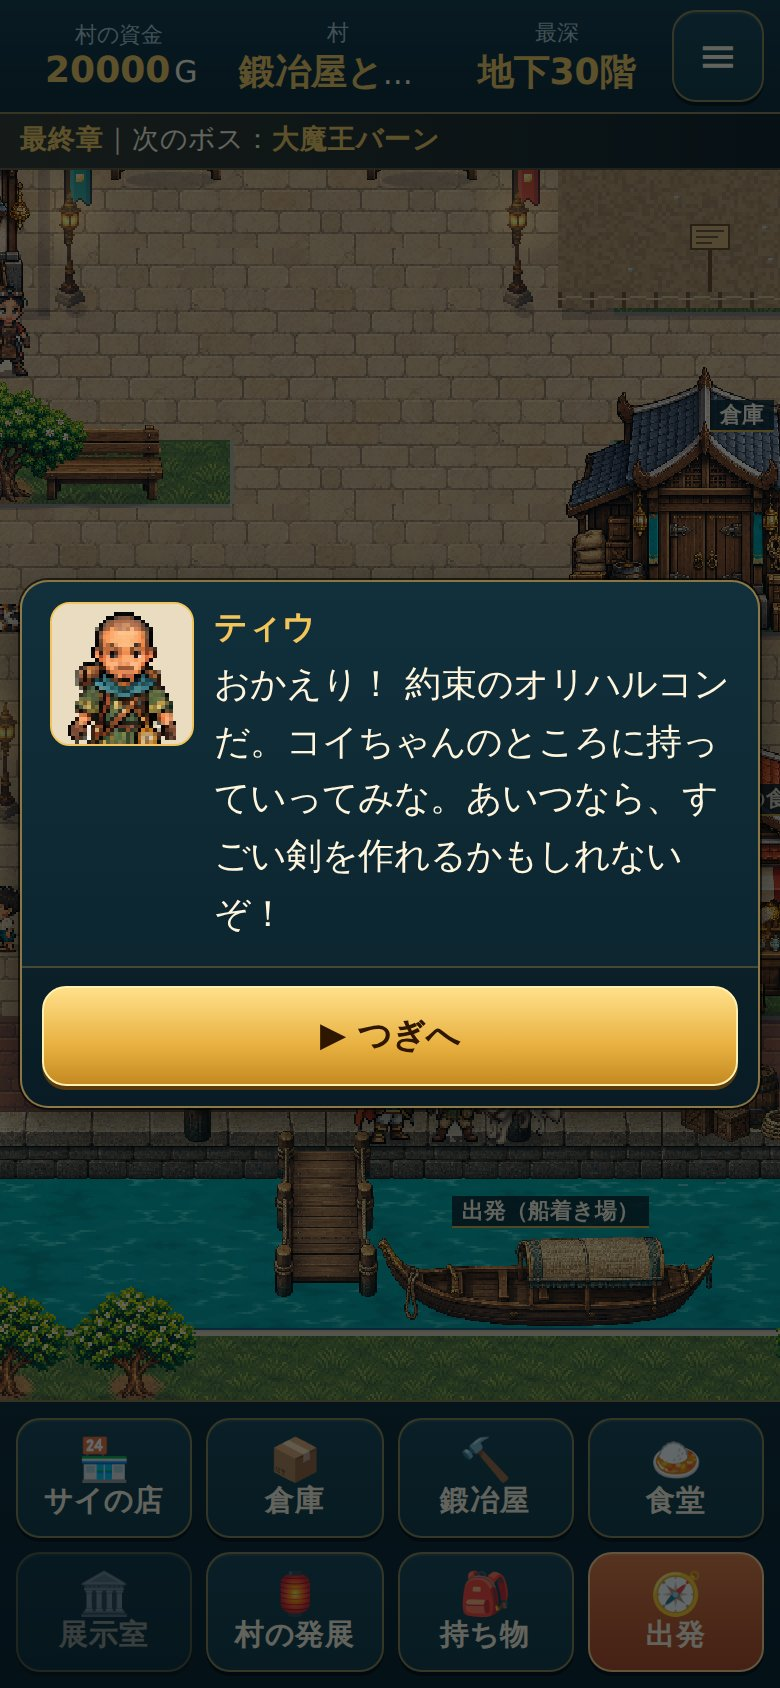
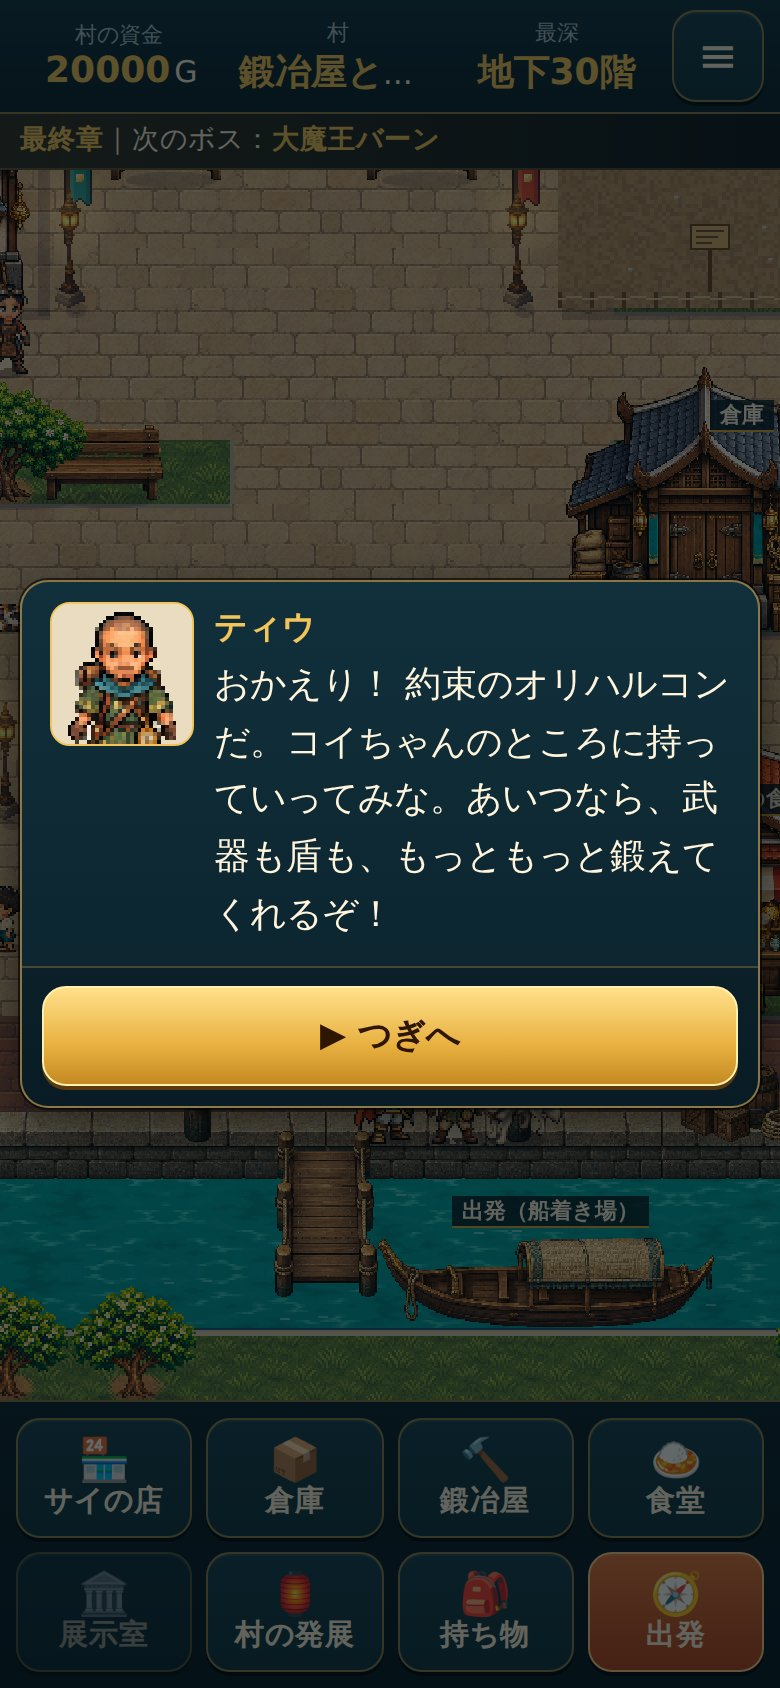
勇者の剣はモッチャンから。コイはオリハルコンで上限なく鍛える
- 勇者の剣：展示室のお宝を全部集め、村の飾りを全部作ったあと、こもれびの家でモッチャンが渡す（昔マスターヤナイが村に寄付した剣。1回だけ）
- コイは勇者の剣を打たない。鍛冶屋が+8の段階なら、どの武器・盾もオリハルコンで上限なく鍛えられる（+9からの費用は今までどおり）
- オリハルコンを持って初めて鍛冶屋へ行くと、コイがそのことを話す（1回だけ）
- 以前の版でコイに打ってもらったセーブでは、二重に渡さない
- テスト・画面確認ツールを更新

Claude-Session: https://claude.ai/code/session_01HDLigwwegm7F2trSGLBQuS

diff --git a/tools/orichalcum-events-check.js b/tools/orichalcum-events-check.js
@@ -2,7 +2,8 @@
 // PCのブラウザ、幅360・390・430。実際の画面の操作で：
 //  ① 30階の救援：オオカミの配送を見終えると、ティウが「オリハルコンを町まで持って帰る」と話す（その場では渡さない）
 //  ② 村でティウに話しかける → オリハルコンを1個受け取る（2回目は冒険案内）
-//  ③ 鍛冶屋（コイ）→ 勇者の剣を打つ会話 → 勇者の剣がバッグに・オリハルコン1個減る・お金は変わらない → 鍛冶屋の画面（上限なし）。2回目は鍛冶屋だけ
+//  ③ 鍛冶屋（コイ）→ 上限なく鍛えられるという会話（1回だけ。勇者の剣は打たない。2026年10月29日）→ 鍛冶屋の画面（上限なし）。2回目は鍛冶屋だけ
+//  ⑤ お宝を全部飾り、村の飾りを全部作ったあと、こもれびの家（モッチャン）→ 勇者の剣の会話 → 剣がバッグに → 村の発展の画面。2回目は村の発展だけ
 //  ④ マスターヤナイの像のあと、食堂（ワーン）→ 勇者の盾の会話 → 盾がバッグに → 食堂の画面。2回目は食堂だけ
 const { chromium } = (() => { try { return require('playwright'); } catch (e) { return require('/opt/node22/lib/node_modules/playwright'); } })();
 const http = require('http'), fs = require('fs'), path = require('path');
@@ -74,15 +75,12 @@ const closeModals = (p) => p.evaluate(() => { while (TS.UI.modals.length) TS.UI.
     const f0 = await p.evaluate(() => TS.UI.S.village.funds);
     await p.tap('.fac[data-fac="smith"]'); await p.waitForTimeout(300);
     if (W === 390) await p.screenshot({ path: path.join(OUT, `3-koi-see_${W}.jpg`), quality: 85 });
-    const l3a = []; for (let i = 0; i < 3 && await p.$('.talk'); i++) { l3a.push(await p.evaluate(() => document.querySelector('.talk .who').textContent + '：' + document.querySelector('.talk .txt').textContent)); await p.tap('.modal-buttons button.primary'); await p.waitForTimeout(200); }
-    if (W === 390) await p.screenshot({ path: path.join(OUT, `3-koi-done_${W}.jpg`), quality: 85 });
-    const l3b = await readTalk(p);
-    const l3 = l3a.concat(l3b);
-    const st3 = await p.evaluate(() => { const V = TS.UI.S.village; return { forge: !!V.story.heroForge, mats: V.materials.orichalcum || 0, sword: V.bag.concat(V.storage).filter((i) => i.id === 'hero_sword_relic').length, funds: V.funds }; });
-    chk(/オリハルコンじゃねえか/.test(l3.join()) && /アタイに任せな/.test(l3.join()) && /アタイもひとつ腕が上がった/.test(l3.join()) && l3.every((s) => !/^コイ：/.test(s) || /コイ/.test(s)), `${W} ③ コイの会話（アタイ） ${l3.join(' / ')}`);
-    chk(st3.forge && st3.mats === 0 && st3.sword === 1 && st3.funds === f0, `${W} ③ 勇者の剣（オリハルコン1個・お金なし）・無限強化の解放 ${JSON.stringify(st3)}`);
+    const l3 = await readTalk(p);
+    const st3 = await p.evaluate(() => { const V = TS.UI.S.village; return { koi: !!V.story.koiOri, mats: V.materials.orichalcum || 0, sword: V.bag.concat(V.storage).filter((i) => i.id === 'hero_sword_relic').length, funds: V.funds }; });
+    chk(/オリハルコンじゃねえか/.test(l3.join()) && /上限なし/.test(l3.join()), `${W} ③ コイの会話（アタイ・上限なし） ${l3.join(' / ')}`);
+    chk(st3.koi && st3.mats === 1 && st3.sword === 0 && st3.funds === f0, `${W} ③ 勇者の剣は打たない・オリハルコンは減らない ${JSON.stringify(st3)}`);
     const smithTitle = await modalTitle(p), smithText = await p.evaluate(() => (document.querySelector('.modal') || {}).textContent || '');
-    chk(/鍛冶屋/.test(smithTitle) && /上限：なし/.test(smithText) && /勇者の剣/.test(smithText), `${W} ③ そのまま鍛冶屋の画面（上限なし・勇者の剣が並ぶ）`);
+    chk(/鍛冶屋/.test(smithTitle) && /上限：なし/.test(smithText), `${W} ③ そのまま鍛冶屋の画面（上限なし）`);
     if (W === 390) await p.screenshot({ path: path.join(OUT, `3-smith_${W}.jpg`), quality: 85 });
     await closeModals(p); await p.waitForTimeout(200);
     await p.tap('.fac[data-fac="smith"]'); await p.waitForTimeout(300);
@@ -103,6 +101,22 @@ const closeModals = (p) => p.evaluate(() => { while (TS.UI.modals.length) TS.UI.
     await closeModals(p); await p.waitForTimeout(200);
     await p.tap('.fac[data-fac="diner"]'); await p.waitForTimeout(300);
     chk(!(await p.$('.talk')), `${W} ④ 2回目は食堂だけ（二重に起きない）`);
+    await closeModals(p);
+    // ⑤ こもれびの家（モッチャン）：そろう前は村の発展だけ → お宝と村の飾りを全部そろえると勇者の剣
+    await p.tap('.fac[data-fac="develop"]'); await p.waitForTimeout(300);
+    chk(!(await p.$('.talk')) && /村の発展/.test(await modalTitle(p)), `${W} ⑤ そろう前は村の発展だけ`);
+    await closeModals(p);
+    await p.evaluate(() => { const V = TS.UI.S.village, D = TS.Data; for (const id of D.MUSEUM_ITEMS) V.donated[id] = true; for (const f of D.FACILITIES) if (f.kind === 'decor') V.built[f.id] = true; TS.Game.applyFacilities(V); TS.Save.save(TS.UI.S); });
+    await p.reload(); await p.waitForTimeout(800); await p.tap('#btn-continue'); await p.waitForTimeout(900); await closeModals(p); await p.waitForTimeout(200);
+    await p.tap('.fac[data-fac="develop"]'); await p.waitForTimeout(300);
+    if (W === 390) await p.screenshot({ path: path.join(OUT, `5-mot-sword_${W}.jpg`), quality: 85 });
+    const l5 = await readTalk(p);
+    const st5 = await p.evaluate(() => { const V = TS.UI.S.village; return { got: !!V.story.heroSword, n: V.bag.concat(V.storage).filter((i) => i.id === 'hero_sword_relic').length }; });
+    chk(/マスターヤナイがこの村に寄付/.test(l5.join()) && /^モッチャン：/.test(l5[0]) && st5.got && st5.n === 1, `${W} ⑤ モッチャンから勇者の剣 ${JSON.stringify(st5)} ${l5[0]}`);
+    chk(/村の発展/.test(await modalTitle(p)), `${W} ⑤ そのまま村の発展の画面`);
+    await closeModals(p); await p.waitForTimeout(200);
+    await p.tap('.fac[data-fac="develop"]'); await p.waitForTimeout(300);
+    chk(!(await p.$('.talk')), `${W} ⑤ 2回目は村の発展だけ（二重に起きない）`);
     await closeModals(p);
     chk(!errs.length, `${W} エラーなし ${errs.join(' / ')}`);
     await ctx.close();

diff --git a/js/data.js b/js/data.js
@@ -350,11 +350,11 @@
       desc: '金でできた蓮の花。とても高く売れる。' },
     /* 勇者の剣・勇者の盾（2026年10月21日【確定】：お宝から、装備・強化できる品へ。IDは以前のお宝のまま hero_sword_relic・hero_shield_relic）。
      * ゲームの中でいちばん基礎の数値が高い剣と盾（覇者の剣 攻27・ドラゴニックオーラの盾 防22 より少し強く）。売れない。
-     *  勇者の剣：オリハルコンを持ってコイ（鍛冶屋）に話しかけると打ってくれる（1回だけ。G.forgeHeroSword）
+     *  勇者の剣：展示室のお宝を全部集め、村の飾りを全部作ったあと、こもれびの家でモッチャンに話しかけると渡してくれる（昔マスターヤナイが村に寄付した剣。1回だけ。G.giveHeroSword。2026年10月29日）
      *  勇者の盾：マスターヤナイの像を建てたあと、ワーン（食堂）に話しかけると渡してくれる（1回だけ。G.giveHeroShield）
      *  絵は今までの勇者の剣・盾（コードで描いた絵：icon・tint）。床・敵・店・商人・ボスの報酬には入れない */
     hero_sword_relic:  { name: '勇者の剣', type: 'weapon', atk: 30, sell: 0, noSell: true, icon: 'sword', tint: 'hero',
-      desc: 'コイがオリハルコンで打ち上げた、勇者の剣。いちばん強い剣。勇者の盾といっしょに装備すると、正面2マス先まで攻撃が届く。' },
+      desc: '昔マスターヤナイが村に寄付した、勇者の剣。いちばん強い剣。勇者の盾といっしょに装備すると、正面2マス先まで攻撃が届く。' },
     hero_shield_relic: { name: '勇者の盾', type: 'shield', def: 24, sell: 0, noSell: true, icon: 'shield', tint: 'hero',
       desc: 'マスターヤナイがワーンに預けていた、勇者の盾。いちばん強い盾。勇者の剣といっしょに装備すると、正面2マス先まで攻撃が届く。' },
     // お宝の竜の紋章（baran_emblem）は2026年10月に廃止。竜の紋章はアクセサリー（dragon_crest）だけ。以前のセーブの品は読み込みで消す（js/save.js の v8 → v9）
@@ -386,9 +386,9 @@
       desc: '鍛冶屋の拡張と強化に使う素材。持ち帰ると素材箱に入る。' },
     gold_leaf:     { name: '神殿の金ぱく', type: 'material', sell: 0, noSell: true, icon: 'shard', tint: 'gold', depth: 26,
       desc: '鍛冶屋の拡張と強化に使う素材。持ち帰ると素材箱に入る。' },
-    // オリハルコン（2026年10月21日）：30階から（床・敵が落とす。D.ORICHALCUM）。勇者の剣を打つのと、+9からの強化に使う
+    // オリハルコン（2026年10月21日）：30階から（床・敵が落とす。D.ORICHALCUM）。+9からの強化に使う
     orichalcum:    { name: 'オリハルコン', type: 'material', sell: 0, noSell: true, icon: 'shard', tint: 'orichalcum', depth: 30,
-      desc: '伝説の金属。コイなら勇者の剣を打てるかもしれない。+9からの強化にも使う。持ち帰ると素材箱に入る。' },
+      desc: '伝説の金属。コイに持っていくと、どんな武器も盾も +9 から先へ上限なく鍛えられる。持ち帰ると素材箱に入る。' },
     // ---- アクセサリー（装備枠は1つ。持っているだけでは効かず、装備している間だけ効く） ----
     poison_ring:   { name: '毒よけの指輪', type: 'accessory', acc: 'poison', sell: 250, icon: 'ring',
       desc: '装備している間、新しく毒にかからない。すでにかかっている毒は治らない。' },
@@ -434,7 +434,7 @@
 
   /* 鍛冶屋の強化：設備の段階で上限が上がる（なし/+3/+5/+8）。
    * +4以降は深い階の素材も必要。売値の上がり方は強化費用よりずっと小さい（換金の抜け道にならない）。 */
-  /* +9から（2026年10月21日）：コイが勇者の剣を打つと「無限強化」が解放（V.story.heroForge）。すべての武器・盾が +8 より先へ（アクセサリーは対象外）。
+  /* +9から（2026年10月21日。29日から条件なし）：鍛冶屋が +8 まで鍛えられる段階なら、オリハルコンで、すべての武器・盾が +8 より先へ上限なく（アクセサリーは対象外）。
    *  +9にする：オリハルコン1個・お金は +8にするときの金額＋1000G。そこから +1 ごとにオリハルコン＋1個・お金＋1000G
    *  （+9：1個・2200G、+10：2個・3200G、+11：3個・4200G …）。今の強化値はそのまま引き継ぐ */
   D.SMITH = {
@@ -446,8 +446,8 @@
   };
   /* オリハルコン（2026年10月21日）：30階から（30階を含む）。33階の真大魔王バーンの決戦場は最初に置く道具なし（そのまま）。
    *  floor：床に置く道具1つごとに、オリハルコンになる確率。drop：敵を倒したとき、オリハルコンを落とす確率。どちらも 5%
-   *  tiw：30階の救援のあと、ティウが町まで持ち帰ってくれる個数。sword：勇者の剣を打つのに使う個数（お金はいらない） */
-  D.ORICHALCUM = { from: 30, floor: 0.05, drop: 0.05, tiw: 1, sword: 1 };
+   *  tiw：30階の救援のあと、ティウが町まで持ち帰ってくれる個数 */
+  D.ORICHALCUM = { from: 30, floor: 0.05, drop: 0.05, tiw: 1 };
 
   /* 敵
    * ai: melee 普通 / slow 2ターンに1回 / ranged 矢（shot：撃つ物の名前）/ dormant 近づくまで眠る / erratic ふらふら

diff --git a/js/game.js b/js/game.js
@@ -2600,8 +2600,8 @@
   };
 
   // ---- 鍛冶屋 ----
-  // 強化の上限：設備の段階（+3/+5/+8）。コイが勇者の剣を打ったあと（V.story.heroForge）は、設備が +8 まで届いていれば上限なし（無限強化）
-  G.smithMax = (V) => { const m = D.SMITH.maxPlusByLv[V.smithLv || 0]; return m >= D.SMITH.maxPlus && V.story && V.story.heroForge ? Infinity : m; };
+  // 強化の上限：設備の段階（+3/+5/+8）。設備が +8 まで届いていれば上限なし（+9からはオリハルコンを使う。2026年10月29日：勇者の剣を打つ条件は無くなった）
+  G.smithMax = (V) => { const m = D.SMITH.maxPlusByLv[V.smithLv || 0]; return m >= D.SMITH.maxPlus ? Infinity : m; };
   G.smithCost = (it) => D.SMITH.cost(it.plus || 0);
   G.smithMats = (it) => D.SMITH.mats(it.plus || 0);
   G.canSmith = function (V, it) {
@@ -2613,8 +2613,7 @@
     const it = V.bag.find((i) => i.uid === uid) || V.storage.find((i) => i.uid === uid);
     if (!it) return { ok: false, msg: '見つかりません。' };
     if (!V.smithLv) return { ok: false, msg: '鍛冶屋がまだありません。' };
-    if (!G.canSmith(V, it)) return { ok: false, msg: (it.plus || 0) >= G.smithMax(V) && G.smithMax(V) < D.SMITH.maxPlus ? '今の設備ではここまで。鍛冶屋を拡張しよう。'
-      : (it.plus || 0) >= D.SMITH.maxPlus && !(V.story && V.story.heroForge) ? 'ここから先は、伝説の金属が要りそうだ……。' : 'これ以上強化できません。' };
+    if (!G.canSmith(V, it)) return { ok: false, msg: (it.plus || 0) >= G.smithMax(V) && G.smithMax(V) < D.SMITH.maxPlus ? '今の設備ではここまで。鍛冶屋を拡張しよう。' : 'これ以上強化できません。' };
     const cost = G.smithCost(it), mats = G.smithMats(it);
     if (V.funds < cost) return { ok: false, msg: 'お金が足りません。（' + cost + 'G 必要）' };
     for (const [m, n] of Object.entries(mats)) if ((V.materials[m] || 0) < n) return { ok: false, msg: '素材が足りません：' + D.ITEMS[m].name + '×' + n };
@@ -2626,8 +2625,9 @@
 
   /* ---- オリハルコンと勇者の剣・盾（2026年10月21日） ----
    *  ティウ：30階の救援で持ち帰ったオリハルコンを、町で1回だけ渡す（V.story.oriTiw：'holding' → 'given'）
-   *  コイ：オリハルコン（素材箱）を持って話しかけると勇者の剣を打つ（1個・お金なし）。1回だけ。無限強化の解放（V.story.heroForge）
-   *    ティウとの会話は条件にしない（ダンジョンで拾ったオリハルコンでもよい）。鍛冶屋が建っていること
+   *  コイ：オリハルコン（素材箱）を持って初めて話しかけると、上限なく鍛えられることを話す（1回だけ。V.story.koiOri）。強化そのものは鍛冶屋の画面で
+   *  モッチャン（こもれびの家）：お宝（展示室）を全部集め、村の飾りを全部作ったあと、勇者の剣を渡す（昔マスターヤナイが村に寄付した剣。V.story.heroSword）。1回だけ
+   *    以前の版でコイに打ってもらった（V.story.heroForge）なら、もう持っているので渡さない
    *  ワーン：マスターヤナイの像があり、まだ受け取っていなければ勇者の盾を渡す（V.story.heroShield）。1回だけ
    *  剣・盾はバッグに入れる（いっぱいなら倉庫。倉庫もいっぱいでも、なくさないよう倉庫へ） */
   const giveVillageItem = (S, id) => { const V = S.village, it = G.makeItem(S, id); if (V.bag.length < D.BAG_SIZE) V.bag.push(it); else V.storage.push(it); return it; };
@@ -2639,12 +2639,15 @@
     V.materials.orichalcum = (V.materials.orichalcum || 0) + D.ORICHALCUM.tiw;
     return { ok: true, n: D.ORICHALCUM.tiw };
   };
-  G.canForgeHeroSword = (V) => !V.story.heroForge && (V.smithLv || 0) >= 1 && (V.materials.orichalcum || 0) >= D.ORICHALCUM.sword;
-  G.forgeHeroSword = function (S) {
+  G.canKoiOri = (V) => !V.story.koiOri && (V.smithLv || 0) >= 1 && (V.materials.orichalcum || 0) >= 1;
+  G.markKoiOri = (V) => { V.story.koiOri = true; };
+  // 勇者の剣の条件：展示室のお宝を全部、村の飾りを全部
+  G.heroSwordReady = (V) => G.donatedCount(V) >= D.MUSEUM_ITEMS.length && D.FACILITIES.filter((f) => f.kind === 'decor').every((f) => !!(V.built && V.built[f.id]));
+  G.canGetHeroSword = (V) => !V.story.heroSword && !V.story.heroForge && G.heroSwordReady(V);
+  G.giveHeroSword = function (S) {
     const V = S.village;
-    if (!G.canForgeHeroSword(V)) return { ok: false };
-    V.materials.orichalcum -= D.ORICHALCUM.sword;
-    V.story.heroForge = true;
+    if (!G.canGetHeroSword(V)) return { ok: false };
+    V.story.heroSword = true;
     const it = giveVillageItem(S, 'hero_sword_relic');
     return { ok: true, item: it, inStorage: V.storage.includes(it) };
   };

diff --git a/js/story.js b/js/story.js
@@ -159,19 +159,23 @@
   };
   // 地下30階のティウの救援（仮の台詞。物語の細部は別に制作中）
   D.STORY.tiwRescue = [['tiw', 'たけ、助けに来たよ！ ここから村へは戻れないけど、荷物なら相棒のオオカミが村の倉庫と運んでくれるよ。']];
-  /* オリハルコンと勇者の剣・盾（2026年10月21日【確定】の流れ。ティウ・コイの台詞は指定の文。ワーンの台詞は「ワーンはもともとマスターヤナイの恋人だった」の設定で作った）
+  /* オリハルコンと勇者の剣・盾（2026年10月21日【確定】の流れ。29日に勇者の剣はモッチャンから。ティウ・コイの台詞は指定の文をもとに。ワーンの台詞は「ワーンはもともとマスターヤナイの恋人だった」の設定で作った）
    *  コイは鍛冶屋の前に立つ女の子。一人称は「アタイ」 */
   D.STORY.orichalcum = {
     // 30階の救援の帰り際（オオカミの配送のあと）。この場では渡さない
     tiwRescueEnd: [['tiw', 'そうそう、さっきオリハルコンを拾ったんだ。俺が町まで持って帰っておくから、戻ったら声をかけてくれ。そのとき渡すよ！']],
     // 町でティウに話しかけたとき（1回だけ）
-    tiwTown: [['tiw', 'おかえり！ 約束のオリハルコンだ。コイちゃんのところに持っていってみな。あいつなら、すごい剣を作れるかもしれないぞ！'],
+    tiwTown: [['tiw', 'おかえり！ 約束のオリハルコンだ。コイちゃんのところに持っていってみな。あいつなら、武器も盾も、もっともっと鍛えてくれるぞ！'],
       ['narration', 'オリハルコンを受け取った！（素材箱に入れた）']],
-    // オリハルコンを持ってコイに話しかけたとき（1回だけ）
-    koiSee: [['koi', 'おいおい……こいつはオリハルコンじゃねえか！'], ['koi', 'よし、アタイに任せな。お前さんにふさわしい一本を打ってやる！'],
-      ['narration', 'カン！ カン！ カン！ ……鍛冶場に、澄んだ槌の音が響きわたる。']],
-    koiDone: [['narration', '勇者の剣が完成した！'],
-      ['koi', 'こいつを打って、アタイもひとつ腕が上がったよ。これからはオリハルコンと金を持ってきな。お気に入りの武器も盾も、とことん鍛えてやる！']],
+    // オリハルコンを持って初めてコイに話しかけたとき（1回だけ。2026年10月29日：勇者の剣は打たない。上限なく鍛えられることを話す）
+    koiSee: [['koi', 'おいおい……こいつはオリハルコンじゃねえか！'],
+      ['koi', 'こいつがあれば、+8の先へいける。オリハルコンと金を持ってきな。どんな武器も盾も、上限なしでとことん鍛えてやる！']],
+    // 展示室のお宝を全部集め、村の飾りを全部作ったあと、こもれびの家でモッチャンに話しかけたとき（1回だけ）
+    motSword: [['mot', 'お宝も、村の飾りも、ぜんぶそろったね。村がここまで元どおりになったのは、たけのおかげだよ。'],
+      ['mot', '実はね、ずっと渡したかったものがあるんだ。昔、マスターヤナイがこの村に寄付してくれた物なんだよ。'],
+      ['narration', 'モッチャンは、こもれびの家の奥から、布に包まれた一振りの剣を持ってきた。'],
+      ['mot', '「村を本当に立て直す者が現れたら、その人に渡してほしい」って。……たけ、これはもう、たけのものだよ。'],
+      ['narration', '勇者の剣を受け取った！']],
     // マスターヤナイの像を建てたあと、ワーンに話しかけたとき（1回だけ）
     waanShield: [['waan', 'あの像を見ていたら、思い出したの。マスターヤナイから預かっていたものがあったんだ！'],
       ['waan', 'ちょっと待ってて。お店の奥に、大切にしまってあるから。'],

diff --git a/js/ui.js b/js/ui.js
@@ -553,10 +553,10 @@
     switch (id) {
       case 'shop': return openShop('buy');
       case 'storage': return openStorage('in');
-      case 'smith': return G.canForgeHeroSword(UI.S.village) ? forgeHeroSword() : openSmith();
+      case 'smith': return G.canKoiOri(UI.S.village) ? koiOriTalk() : openSmith();
       case 'diner': return G.canGetHeroShield(UI.S.village) ? heroShieldEvent() : openDiner();
       case 'museum': return openMuseum();
-      case 'develop': return openDevelop();
+      case 'develop': return G.canGetHeroSword(UI.S.village) ? heroSwordEvent() : openDevelop();
       case 'bag': return openVillageBag();
       case 'depart': return openDepart();
     }
@@ -688,14 +688,18 @@
     const all = ['amber_shard', 'bronze_shard', 'crystal_shard', 'gold_leaf', 'orichalcum'];
     return '<div class="kv">' + all.map((m) => `<span>${esc(D.ITEMS[m].name)}</span><span>${V.materials[m] || 0}個 <small class="note">（${D.ITEMS[m].depth}階〜）</small></span>`).join('') + '</div>';
   }
-  // コイが勇者の剣を打つ（オリハルコンを持って鍛冶屋へ。1回だけ。打ち終えると無限強化が解放）→ そのまま鍛冶屋の画面へ
-  function forgeHeroSword() {
-    const O = D.STORY.orichalcum;
-    talk(O.koiSee, () => {
-      const r = G.forgeHeroSword(UI.S); villageChanged();
+  // オリハルコンを持って初めて鍛冶屋へ：コイが上限なく鍛えられることを話す（1回だけ）→ そのまま鍛冶屋の画面へ
+  function koiOriTalk() {
+    G.markKoiOri(UI.S.village); save();
+    talk(D.STORY.orichalcum.koiSee, () => openSmith());
+  }
+  // モッチャンが勇者の剣を渡す（お宝と村の飾りが全部そろったあと。1回だけ）→ そのまま村の発展の画面へ
+  function heroSwordEvent() {
+    talk(D.STORY.orichalcum.motSword, () => {
+      const r = G.giveHeroSword(UI.S); villageChanged();
       if (!r.ok) return;
       AU.sfx('levelup');
-      talk(O.koiDone.concat(r.inStorage ? [['narration', '（持ち物がいっぱいなので、倉庫に入れた）']] : []), () => openSmith());
+      if (r.inStorage) talk([['narration', '（持ち物がいっぱいなので、倉庫に入れた）']], () => openDevelop()); else openDevelop();
     });
   }
   // ワーンが勇者の盾を渡す（マスターヤナイの像のあと。1回だけ）→ そのまま食堂の画面へ
